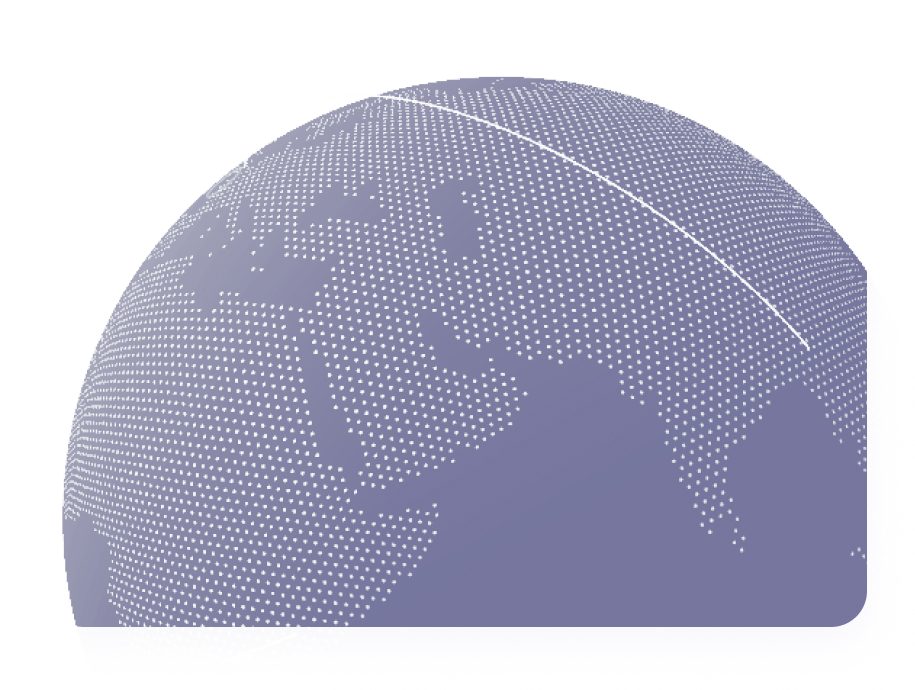
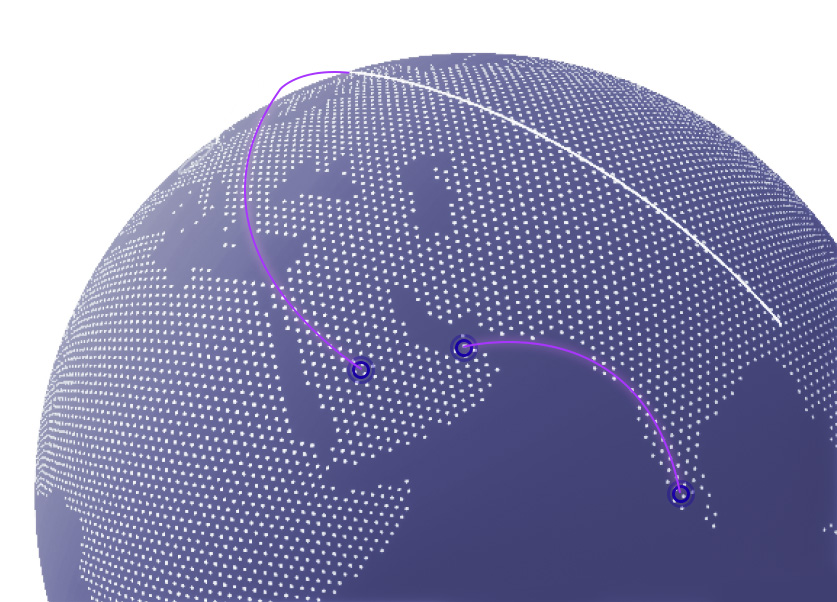
fix: Removed Globe 3d model and added static image

diff --git a/src/app/_components/featured.tsx b/src/app/_components/featured.tsx
@@ -1,3 +1,5 @@
+import Image from "next/image";
+
 import { Blob } from "@/components/assets/blob";
 import { AnimatedBeamSocial } from "@/components/bento/animated-beam";
 import { AnimatedListDemo } from "@/components/bento/animated-list";
@@ -148,7 +150,17 @@ const features = [
     className: "col-span-3 lg:col-span-2 lg:row-start-3",
     href: "#",
     cta: "Learn more",
-    background: "<GridGlobe />",
+    background: (
+      <Image
+        src="/images/globe.jpg"
+        width={272}
+        height={210}
+        alt=""
+        className="absolute right-0 top-3 scale-110 [mask-image:linear-gradient(to_top,transparent_10%,#000_100%)]"
+      />
+
+      // <GridGlobe />
+    ),
   },
   {
     name: "Dedicated Support",
